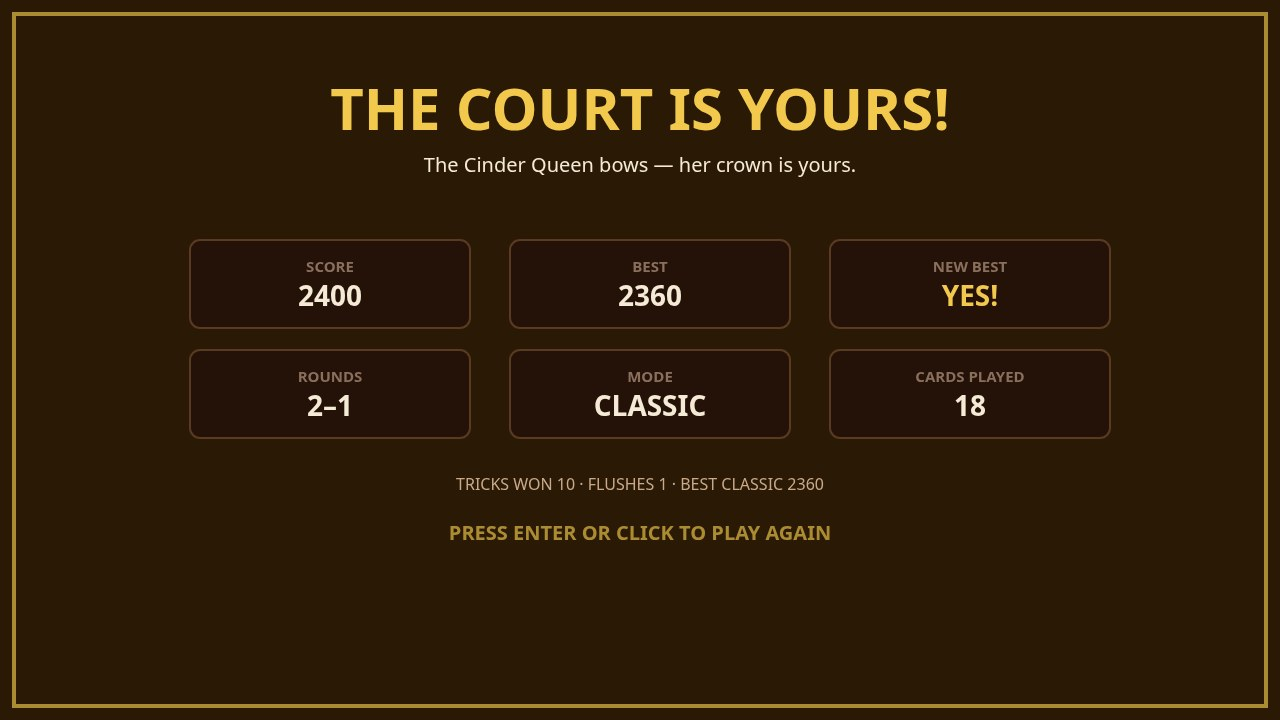
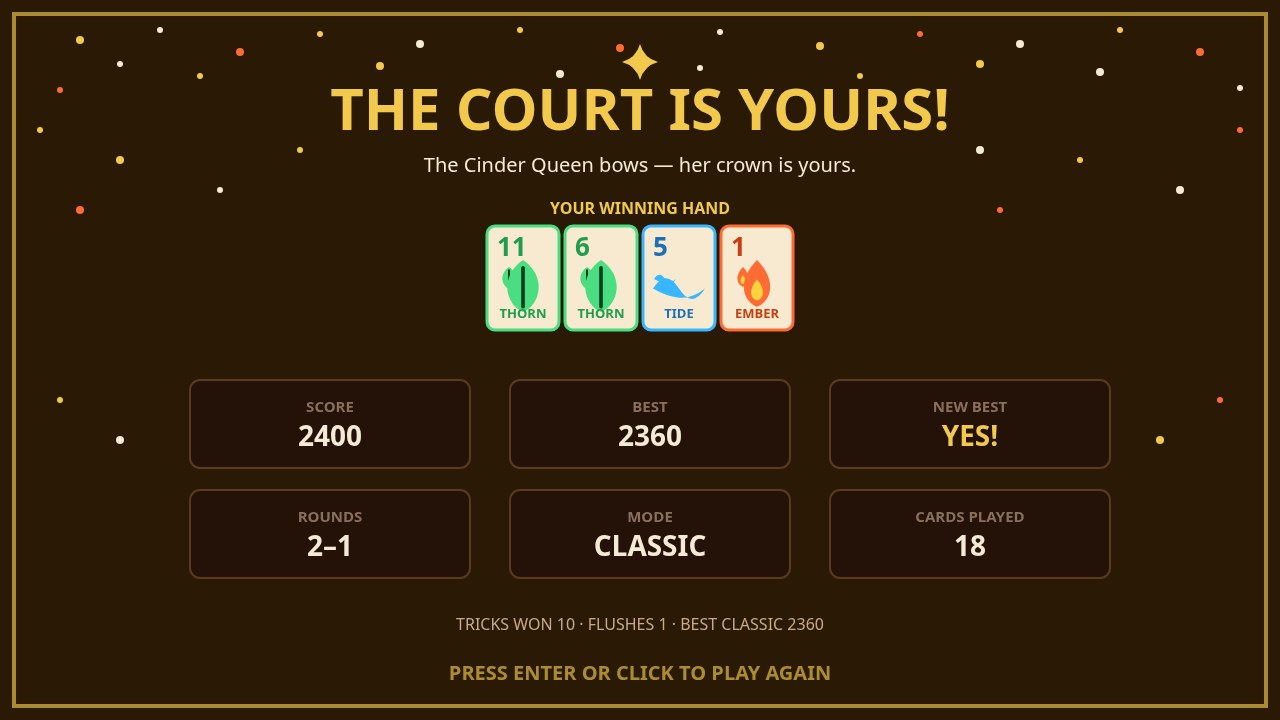
Round 4: relics & goals panel, boss bar, relic title pitch, win hand + flourish, face-up discard

diff --git a/game/src/render.js b/game/src/render.js
@@ -209,9 +209,29 @@ export function createRenderer(canvas) {
     const phase = rivalPhase(state.round);
     text(RIVAL.name, 16, 96, 22, '#ff8a5c', 'left', true);
     text(phase.name, 16, 118, 15, PALETTE.gold, 'left');
+    // Boss bar: phase pips (●●○) + the phase bonus, so the rival reads as a boss.
+    for (let i = 0; i < 3; i += 1) {
+      const cx = 176 + i * 16;
+      ctx.beginPath();
+      ctx.arc(cx, 113, 5, 0, Math.PI * 2);
+      if (i < phase.number) {
+        ctx.fillStyle = PALETTE.gold;
+        ctx.fill();
+      } else {
+        ctx.strokeStyle = PALETTE.dim;
+        ctx.lineWidth = 2;
+        ctx.stroke();
+      }
+    }
+    text(`BONUS +${phase.bonus}`, 224, 118, 14, PALETTE.gold, 'left', true);
     text(phase.note, 16, 138, 13, PALETTE.dim, 'left');
     text('LIFE', 300, 96, 14, PALETTE.muted, 'left');
     hearts(300, 104, state.lives.rival, 3, '#ff5a4e');
+    // HP bar under the hearts: rival lives as a red bar.
+    ctx.fillStyle = '#4a2c1c';
+    ctx.fillRect(300, 120, 72, 6);
+    ctx.fillStyle = '#ff5a4e';
+    ctx.fillRect(300, 120, Math.max(0, 72 * (state.lives.rival / 3)), 6);
     text(`ROUNDS ${state.roundsWon.rival}`, 300, 140, 14, PALETTE.muted, 'left');
     // Her hand: face-down backs, fanned.
     for (let i = 0; i < state.rivalHand.length; i += 1) {
@@ -247,7 +267,38 @@ export function createRenderer(canvas) {
     text('FLUSH: 3 same suit = +100', 1016, y + 58, 13, PALETTE.cream, 'left');
     text('COMBO: win tricks in a row', 1016, y + 82, 13, PALETTE.cream, 'left');
     text('to grow the xN multiplier', 1016, y + 100, 13, PALETTE.cream, 'left');
-    if (state.draftPick) text(`BOON: ${state.draftPick}`, 1016, y + 128, 13, PALETTE.gold, 'left', true);
+    // The old one-line BOON note lived here; the relics roster below names every pick.
+  }
+
+  /** RELICS & BOONS roster + COURT GOALS checklist, in the empty right column. */
+  function drawRelicsAndGoals(state) {
+    const relics = [
+      { key: 'sigil', held: state.relic === 'sigil', line: 'EMBER SIGIL — +15% pts' },
+      { key: 'ward', held: state.ward, line: 'THORN WARD — eats bonus' },
+      { key: 'charm', held: state.charm, line: 'CHAIN CHARM — +50%/step' },
+      { key: 'draw', held: state.handBonus > 0, line: 'DRAW +2 — 8-card hand' },
+      { key: 'life', held: state.draftPick === '+1 LIFE', line: '+1 LIFE — mend a heart' },
+    ];
+    const heldCount = relics.filter((r) => r.held).length;
+    panel(1000, 498, 264, 196);
+    text(`RELICS & BOONS ${heldCount}/5`, 1016, 518, 15, PALETTE.gold, 'left', true);
+    for (let i = 0; i < relics.length; i += 1) {
+      const relic = relics[i];
+      const y = 538 + i * 16;
+      if (relic.held) text(`✓ ${relic.line}`, 1016, y, 13, PALETTE.gold, 'left', true);
+      else text(`· ${relic.line}`, 1016, y, 13, PALETTE.dim, 'left');
+    }
+    ctx.strokeStyle = PALETTE.panelEdge;
+    ctx.beginPath();
+    ctx.moveTo(1016, 614);
+    ctx.lineTo(1248, 614);
+    ctx.stroke();
+    text('COURT GOALS', 1016, 634, 15, PALETTE.gold, 'left', true);
+    const flushDone = state.stats.flushes > 0;
+    const chainDone = state.combo >= 3;
+    text(`FLUSH 3 IN A ROW — ${flushDone ? '✓' : '—'}`, 1016, 653, 13, flushDone ? PALETTE.gold : PALETTE.cream, 'left', flushDone);
+    text(`CHAIN x3 — ${chainDone ? '✓' : '—'}`, 1016, 669, 13, chainDone ? PALETTE.gold : PALETTE.cream, 'left', chainDone);
+    text(`TAKE 2 ROUNDS — ${state.roundsWon.you}/2`, 1016, 685, 13, PALETTE.cream, 'left');
   }
 
   function drawTable(state) {
@@ -274,6 +325,17 @@ export function createRenderer(canvas) {
       ctx.globalAlpha = Math.max(0, 1 - popup.t / popup.life);
       text(popup.text, popup.x, popup.y, 24, popup.color, 'center', true);
       ctx.globalAlpha = 1;
+    }
+    // Top discard card, face up, at the table's right edge.
+    text('DISCARD', 914, 222, 13, PALETTE.dim, 'center', true);
+    if (state.piles && state.piles.discard && state.piles.discard.length > 0) {
+      const top = state.piles.discard[state.piles.discard.length - 1];
+      const shown = { ...top, x: 884, y: 232, face: 1 };
+      drawCard(shown, 60, 88);
+      text(`${state.piles.discard.length} CARDS`, 914, 340, 13, PALETTE.muted, 'center');
+    } else {
+      drawCardBack(884, 232, 60, 88);
+      text('EMPTY', 914, 340, 13, PALETTE.muted, 'center');
     }
     // Your life, under the table.
     text('YOUR LIFE', 40, 446, 14, PALETTE.muted, 'left');
@@ -309,7 +371,7 @@ export function createRenderer(canvas) {
     ctx.strokeRect(10, 10, FIELD.width - 20, FIELD.height - 20);
     text('EMBER COURT', FIELD.width / 2, 150, 76, PALETTE.gold, 'center', true);
     text('A duel of 4 suits against THE CINDER QUEEN', FIELD.width / 2, 192, 22, PALETTE.cream, 'center');
-    text('4 SUITS · 3 ROUNDS · 48 CARDS · 3-PHASE RIVAL · 2 MODES', FIELD.width / 2, 232, 20, PALETTE.gold, 'center', true);
+    text('4 SUITS · 3 ROUNDS · 48 CARDS · 3-PHASE RIVAL · 5 DRAFT RELICS · 2 MODES', FIELD.width / 2, 232, 20, PALETTE.gold, 'center', true);
     // Suits legend row: four centred blocks, glyph over name over rule.
     for (let i = 0; i < SUIT_KEYS.length; i += 1) {
       const suit = SUITS[SUIT_KEYS[i]];
@@ -338,11 +400,12 @@ export function createRenderer(canvas) {
     text('WIN: take 2 rounds before your life hits 0 · LOSE: your life hits 0', FIELD.width / 2, 520, 17, PALETTE.cream, 'center');
     text('Play a higher card — or counter her suit for +4. Chain your suits. Flush for +100.', FIELD.width / 2, 548, 16, PALETTE.muted, 'center');
     text('AFTER EACH ROUND: DRAFT 1 OF 3 — NEW CARD · RELIC · +LIFE', FIELD.width / 2, 578, 16, PALETTE.gold, 'center', true);
+    text('RELICS: EMBER SIGIL · THORN WARD · CHAIN CHARM · DRAW +2 · +1 LIFE', FIELD.width / 2, 604, 16, PALETTE.gold, 'center', true);
     const pulse = 0.65 + 0.35 * Math.sin(state.time * 3);
     ctx.globalAlpha = pulse;
-    text('CLICK A MODE, OR PRESS 1 / 2 — THEN ENTER TO BEGIN', FIELD.width / 2, 610, 20, PALETTE.gold, 'center', true);
+    text('CLICK A MODE, OR PRESS 1 / 2 — THEN ENTER TO BEGIN', FIELD.width / 2, 626, 20, PALETTE.gold, 'center', true);
     ctx.globalAlpha = 1;
-    text('The Queen telegraphs every card she will play. Read her. Counter her.', FIELD.width / 2, 650, 15, PALETTE.dim, 'center');
+    text('The Queen telegraphs every card she will play. Read her. Counter her.', FIELD.width / 2, 660, 15, PALETTE.dim, 'center');
   }
 
   function drawDraft(state) {
@@ -382,6 +445,24 @@ export function createRenderer(canvas) {
     ctx.strokeRect(14, 14, FIELD.width - 28, FIELD.height - 28);
     ctx.globalAlpha = 1;
     if (won) {
+      // Frozen flourish: fixed confetti dots (deterministic — no random per frame).
+      const confetti = [
+        [80, 40, 4, 0], [160, 30, 3, 1], [240, 52, 4, 2], [320, 34, 3, 0], [420, 44, 4, 1], [520, 30, 3, 0],
+        [620, 48, 4, 2], [720, 32, 3, 1], [820, 46, 4, 0], [920, 34, 3, 2], [1020, 44, 4, 1], [1120, 30, 3, 0],
+        [1200, 52, 4, 2], [120, 64, 3, 1], [380, 66, 4, 0], [700, 68, 3, 1], [980, 64, 4, 0], [60, 90, 3, 2],
+        [1240, 88, 3, 1], [200, 76, 3, 0], [560, 74, 4, 1], [860, 76, 3, 0], [1100, 72, 4, 1], [40, 130, 3, 0],
+        [1240, 130, 3, 2], [120, 160, 4, 0], [220, 190, 3, 1], [80, 210, 4, 2], [1080, 160, 3, 0], [1180, 190, 4, 1],
+        [1000, 210, 3, 2], [300, 150, 3, 0], [980, 150, 4, 1], [60, 400, 3, 0], [120, 440, 4, 1], [1220, 400, 3, 2],
+        [1160, 440, 4, 0],
+      ];
+      const confettiColors = [PALETTE.gold, PALETTE.cream, '#ff6b35'];
+      for (const dot of confetti) {
+        ctx.fillStyle = confettiColors[dot[3]];
+        ctx.beginPath();
+        ctx.arc(dot[0], dot[1], dot[2], 0, Math.PI * 2);
+        ctx.fill();
+      }
+      drawGlyph(ctx, 'spark', FIELD.width / 2, 62, 18, PALETTE.gold);
       text('THE COURT IS YOURS!', FIELD.width / 2, 130, 58, PALETTE.gold, 'center', true);
       text('The Cinder Queen bows — her crown is yours.', FIELD.width / 2, 172, 20, PALETTE.cream, 'center');
     } else {
@@ -395,6 +476,21 @@ export function createRenderer(canvas) {
         drawCard(state.rivalLastHand[i], 72, 104);
       }
     }
+    // Your winning hand, face up, on the win screen: the last four cards YOU
+    // played, recovered from the discard pile in play order (you, rival, you,
+    // rival — every resolved trick discards both cards, so your last four are
+    // the pile's last eight at even offsets). The hand is empty at match end
+    // (all cards are played each round), so state.hand cannot supply it.
+    if (won && state.piles && state.piles.discard && state.piles.discard.length >= 8) {
+      const disc = state.piles.discard;
+      const youCards = [disc[disc.length - 8], disc[disc.length - 6], disc[disc.length - 4], disc[disc.length - 2]];
+      text('YOUR WINNING HAND', FIELD.width / 2, 214, 16, PALETTE.gold, 'center', true);
+      const totalW = youCards.length * 72 + (youCards.length - 1) * 6;
+      for (let i = 0; i < youCards.length; i += 1) {
+        const shown = { ...youCards[i], x: 640 - totalW / 2 + i * 78, y: 226, face: 1 };
+        drawCard(shown, 72, 104);
+      }
+    }
     const stats = [
       ['SCORE', String(state.score)],
       ['BEST', String(best)],
@@ -403,7 +499,7 @@ export function createRenderer(canvas) {
       ['MODE', MODES[state.mode].name],
       ['CARDS PLAYED', String(state.stats.cardsPlayed)],
     ];
-    const y0 = won ? 240 : 380;
+    const y0 = 380;
     for (let i = 0; i < stats.length; i += 1) {
       const bx = 190 + (i % 3) * 320;
       const by = y0 + Math.floor(i / 3) * 110;
@@ -451,6 +547,7 @@ export function createRenderer(canvas) {
     drawRivalRow(state);
     drawTable(state);
     drawLegend(state);
+    drawRelicsAndGoals(state);
     drawMessage(state);
     drawHand(state);
     if (screen === SCREEN_PAUSED) drawPaused();
